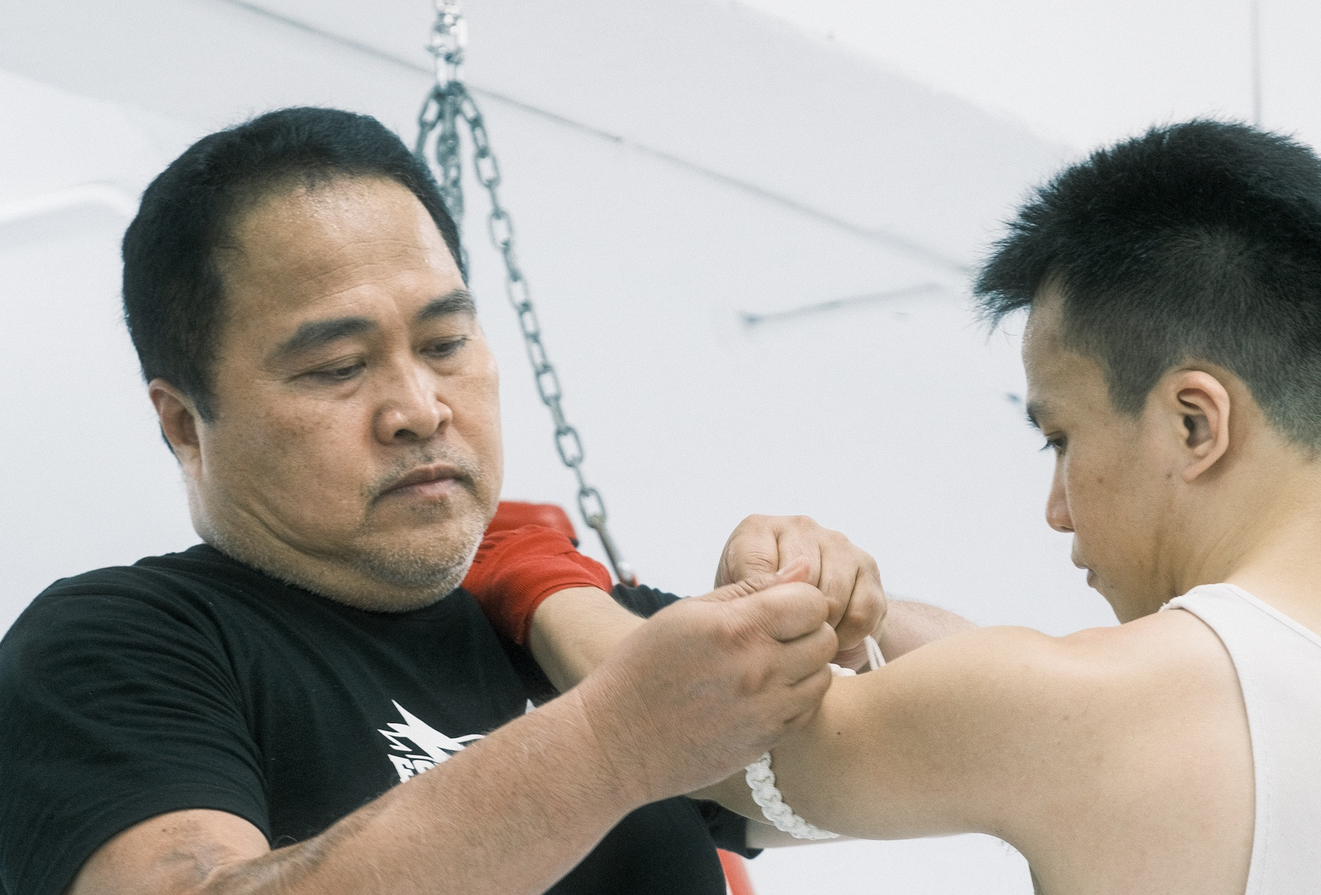
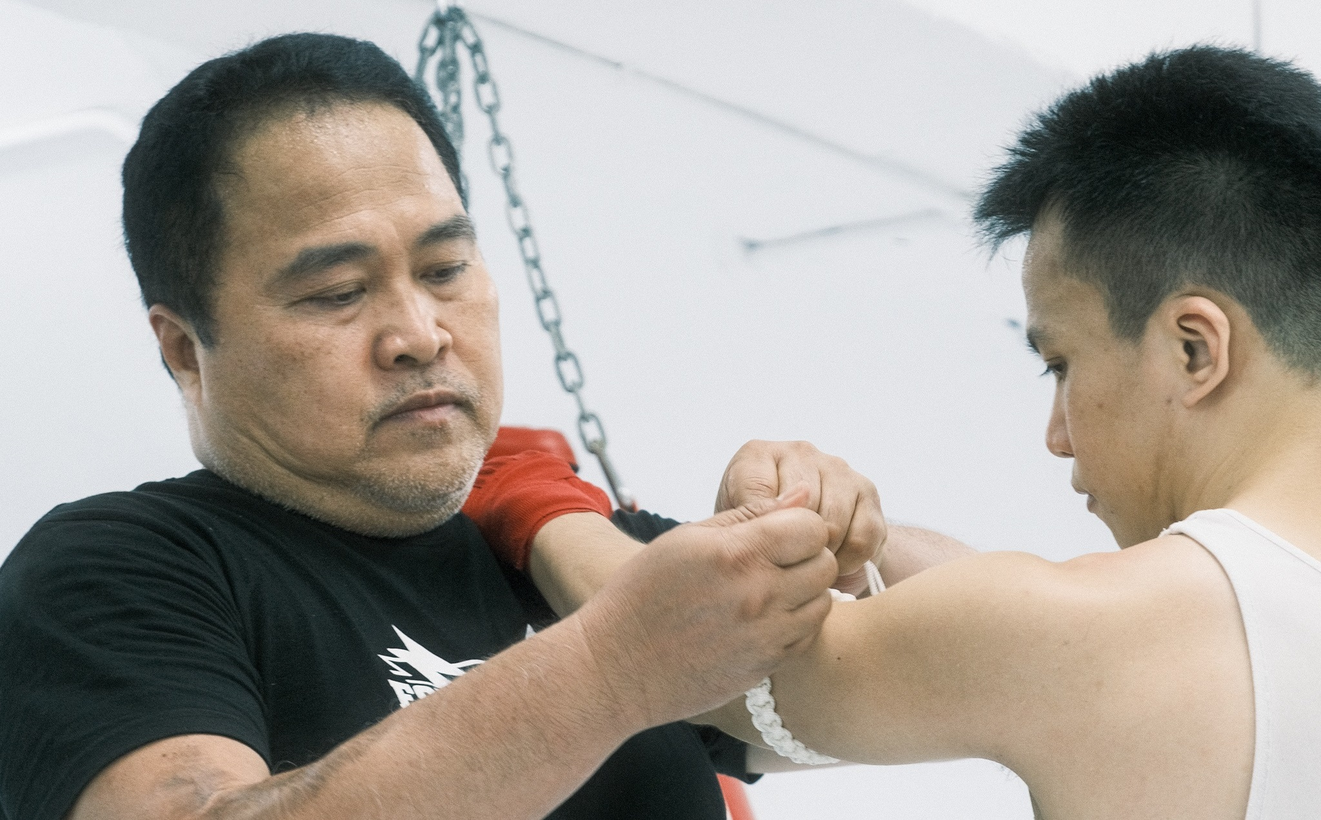
Updates images and fix copy formatting

diff --git a/index.html b/index.html
@@ -60,7 +60,7 @@
 										In his years of coaching at the international stage, he has worked with many prominent 
 										martial artists such as Yadong Song (UFC #15 ranked Bantamweight) and Mathias Cassarino.</p>
 								</header>
-								<a href="#" class="image main"><img src="images/aj-sparring-alex.jpg" alt="ajarn laem with mathias cassarino wbc belts" /></a>
+								<a href="#" class="image main"><img src="images/aj-student-2.jpg" alt="ajarn laem with mathias cassarino wbc belts" /></a>
 								<!-- <ul class="actions special">
 									<li><a href="#" class="button large">Full Story</a></li>
 								</ul> -->
@@ -120,6 +120,12 @@
 
 							<section class="posts">
 								<article class="testimonial">
+									<p>I trained with Ajarn for more than 2 years. He focuses on techniques and ensures that each student 
+										builds a strong foundation to progress even further. He is also a fatherly figure to many. 
+										<h4 class="align-left">- Benjamin</h4>
+									</p>
+								</article>
+								<article class="testimonial">
 									<p>Ajarn Laem was my primary reason for choosing this gym over the many others I've tried. The process is always made enjoyable by his positive attitude, undying support in and out 
 										of the gym, and infectious laughter.
 										<h4 class="align-left">- Jina</h4>
@@ -129,12 +135,6 @@
 									<p>Ajarn is a very friendly and patient coach with many years of experience. His ability to cater to 
 										the different students makes the sessions very engaging. 
 										<h4 class="align-left">- Michael</h4>
-									</p>
-								</article>
-								<article class="testimonial">
-									<p>I trained with Ajarn for more than 2 years. He focuses on techniques and ensures that each student 
-										builds a strong foundation to progress even further. He is also a fatherly figure to many. 
-										<h4 class="align-left">- Benjamin</h4>
 									</p>
 								</article>
 								<article class="img-promotion"></article>

diff --git a/about_me.html b/about_me.html
@@ -66,12 +66,13 @@
 									While he started coaching in the rural countryside of Ubon Ratchathani, he was quickly recognised for his elite coaching style and technical knowledge, and invited to coach in the city where he continued to train many amateur and professional fighters to victory.
 									<br><br>
 									Ajarn Laem coached at multiple world class gyms in countries such as Germany, China, Italy, and France, and worked with many prominent martial artists such as: 
-									Yadong Song (UFC #9 ranked Bantamweight)
-									Mathias Cassarino (Ranked #2 Lumpinee & WPMF/WBC Champion)
-									Kem Sitsongpeenong (WMC/Thailand Champion)
-									Yodwicha (Lumpinee/WBC Champion)
-									Aranchai Kiatpattarapan (WBC Champion)
-									<br><br>
+									<ul>
+										<li>Yadong Song (UFC #9 ranked Bantamweight)</li>
+										<li>Mathias Cassarino (Ranked #2 Lumpinee & WPMF/WBC Champion)</li>
+										<li>Kem Sitsongpeenong (WMC/Thailand Champion)</li>
+										<li>Yodwicha (Lumpinee/WBC Champion)</li>
+										<li>Aranchai Kiatpattarapan (WBC Champion)</li>
+									</ul>
 									Ajarn Laem has a lot to offer - apart from his wealth of knowledge gathered throughout the past 30 years, his professionalism and patience is next-to-none. His constant support and encouragement for his students has made him popular and well sought after in the Muay Thai community. There will never be a dull moment in any of his classes!
 								</p>
 								<div class="button-cta">

diff --git a/students.html b/students.html
@@ -107,6 +107,24 @@
 										</div>
 										<br>
 									</div>
+									<!-- <div id="aranchai">
+										<h2>Aranchai</h2>
+										<div class="notable-students">
+											<div>
+												<img class="responsive-img" src="images/aj-aranchai.jpeg" alt="ajarn aranchai wbc muay thai" />
+											</div>
+											<div>
+												<strong>X Wins, X Losses, X Draws</strong>
+												<ul>
+													<li>Lorem ipsum dolor sit amet, consectetur adipisicing elit.</li>
+													<li>Lorem ipsum dolor sit amet, consectetur adipisicing elit.</li>
+													<li>Lorem ipsum dolor sit amet, consectetur adipisicing elit.</li>
+													<li>Lorem ipsum dolor sit amet, consectetur adipisicing elit.</li>
+												</ul>
+											</div>
+										</div>
+										<br>
+									</div> -->
 									<div id="yodwicha">
 										<h2>Yodwicha</h2>
 										<div class="notable-students">
